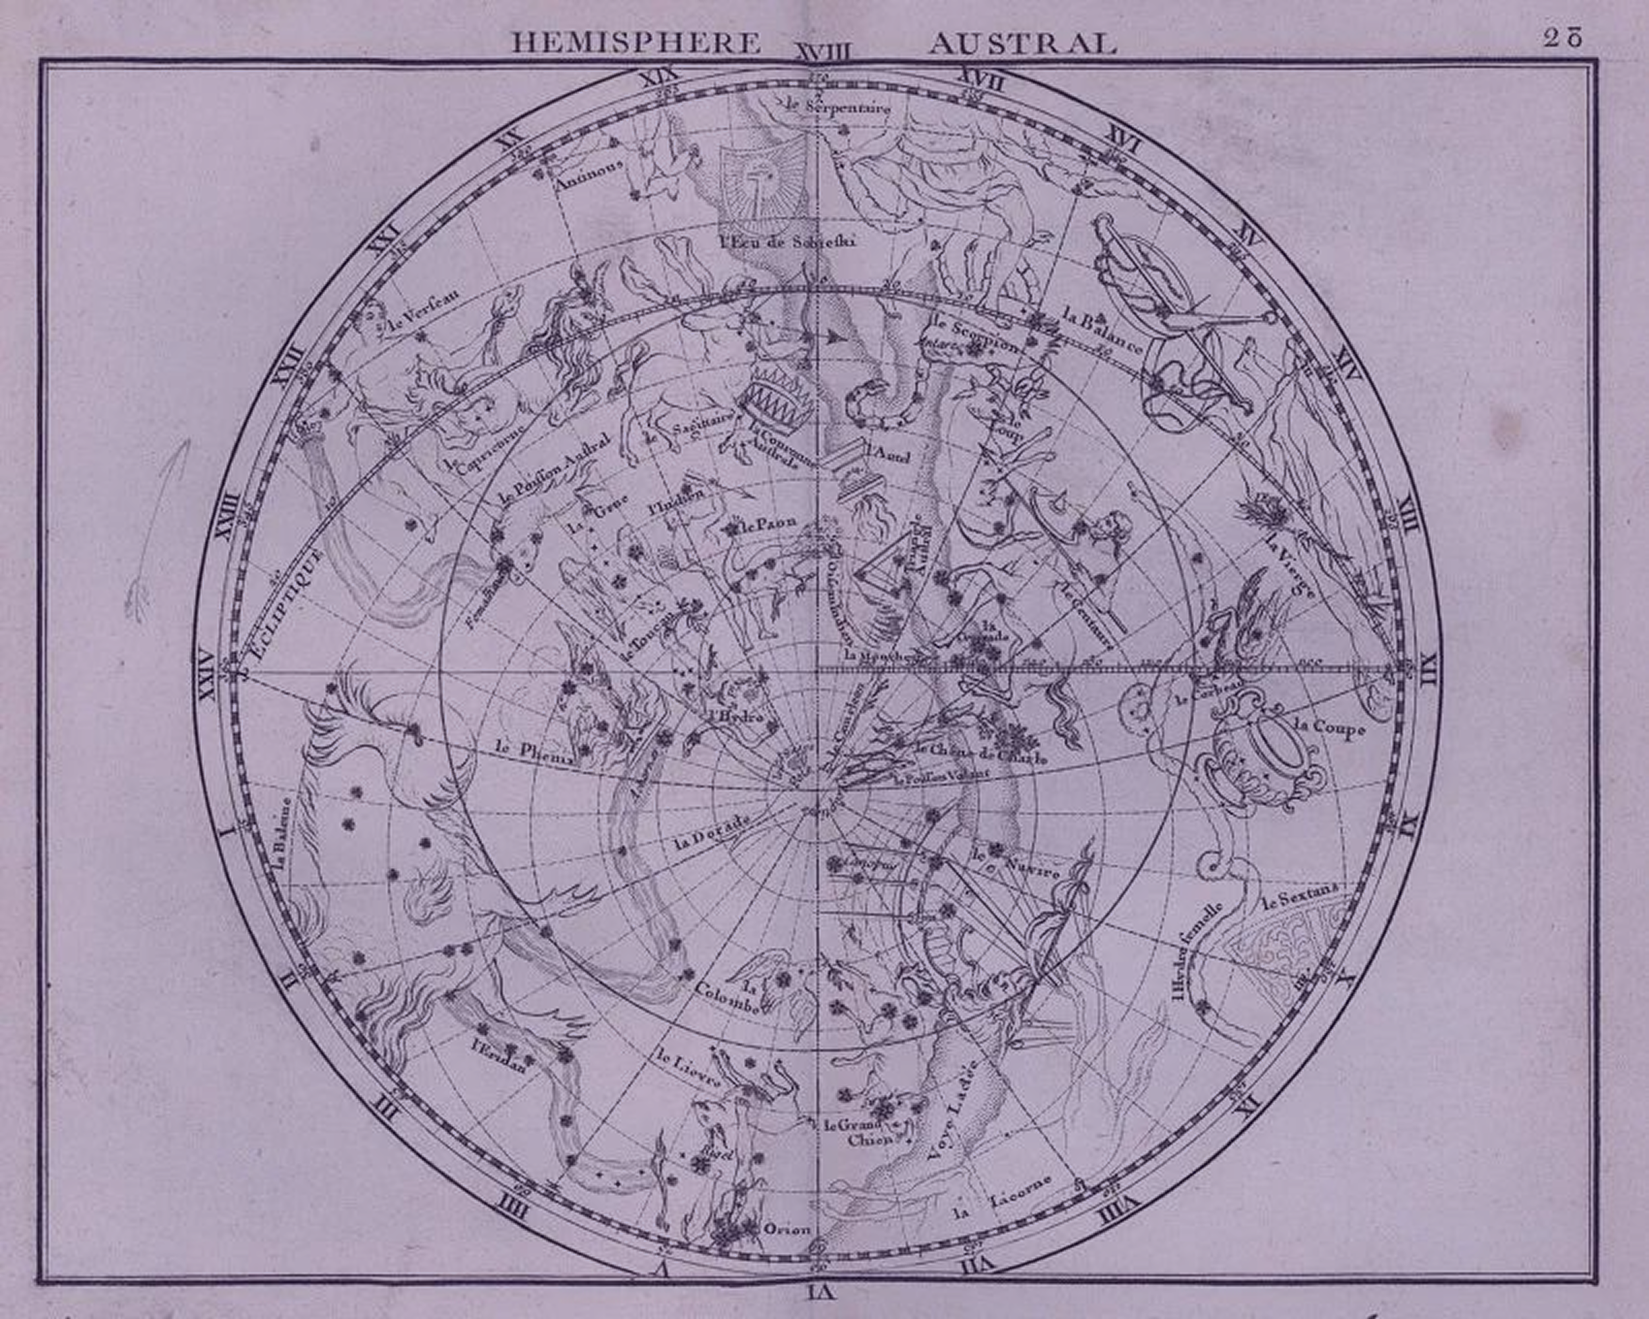
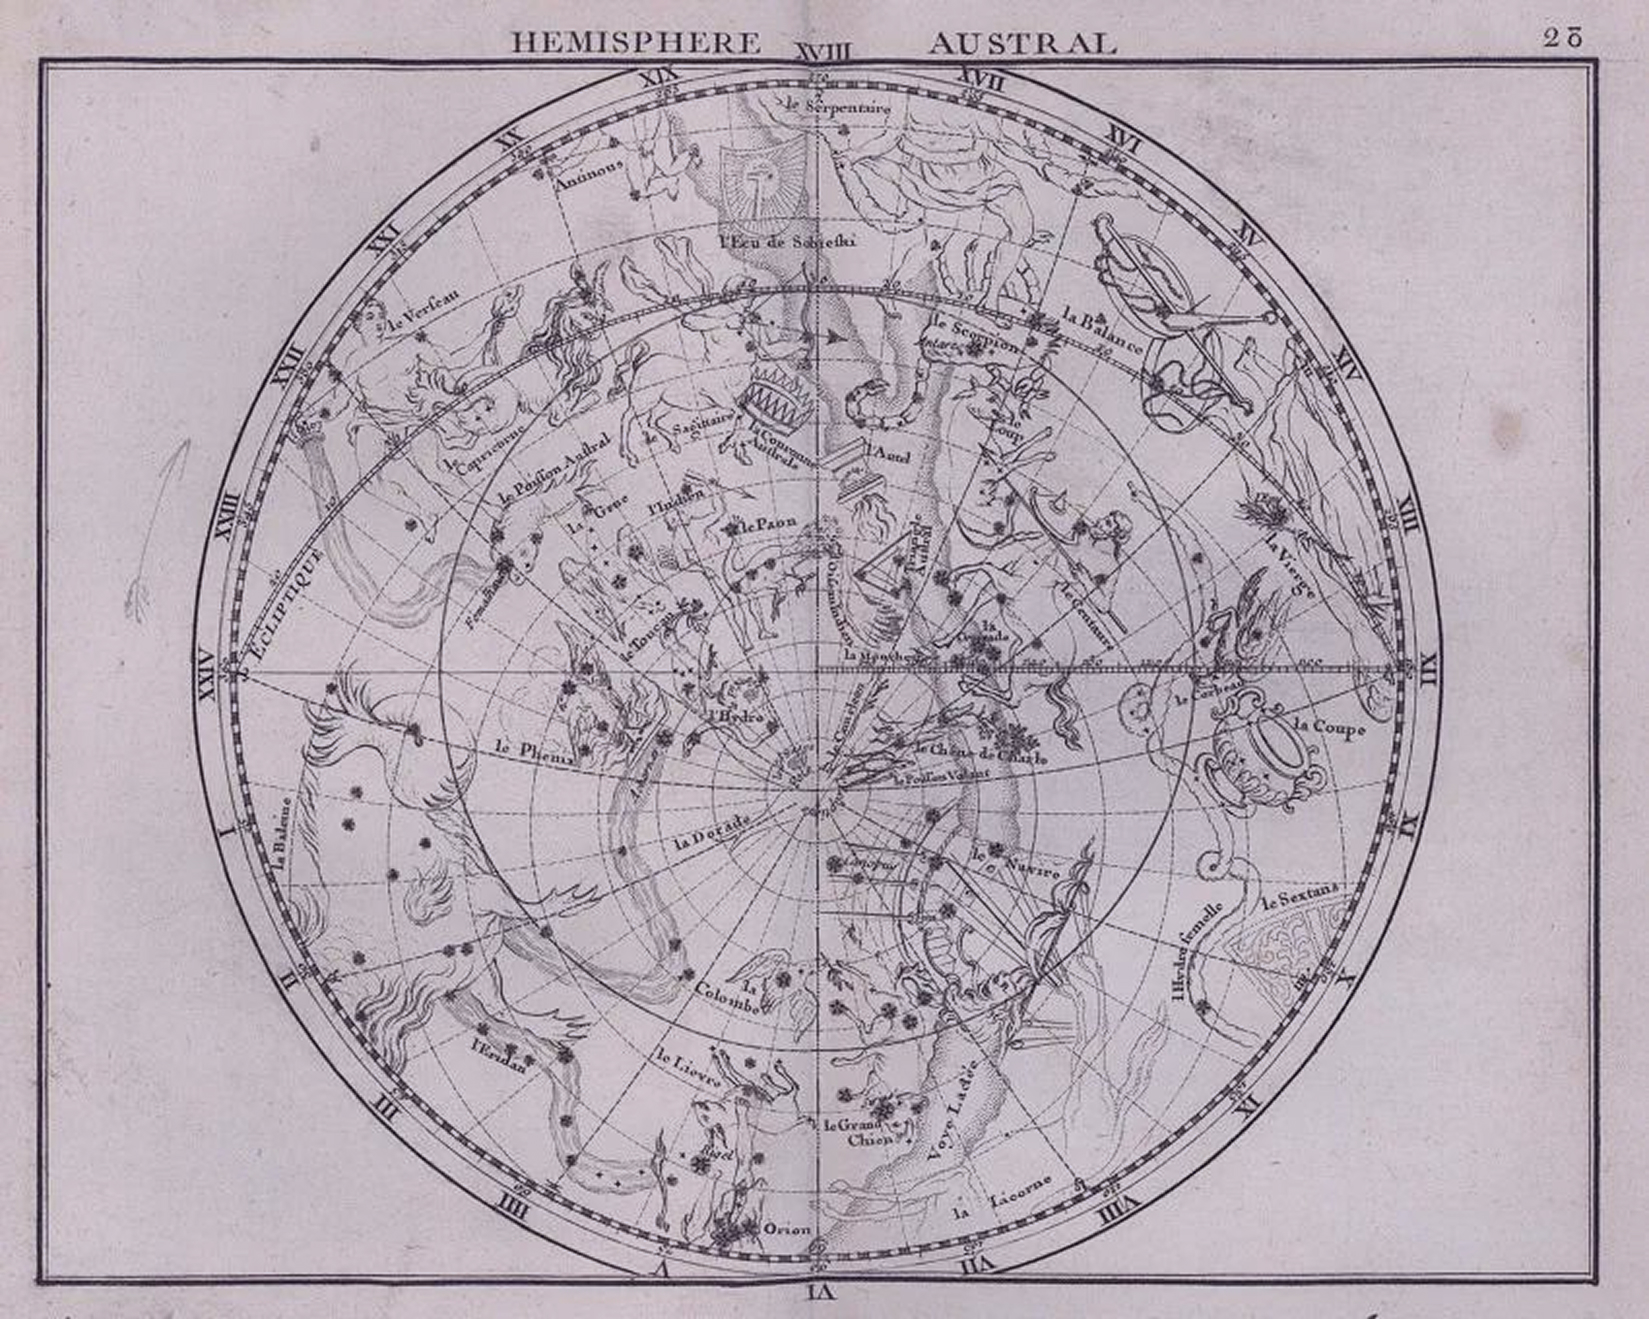
tabea article

diff --git a/src/styles/global.css b/src/styles/global.css
@@ -97,9 +97,9 @@
   }
 
   em, i {
-  font-style: normal;
-  font-variation-settings: "slnt" -12;
-  font-synthesis: none;
+    /* font-style: normal; */
+    font-variation-settings: "slnt" -12;
+    font-synthesis: none;
   }
 
   .hide-nav {

diff --git a/src/content/articles/speculating-crisis.md b/src/content/articles/speculating-crisis.md
@@ -1,0 +1,96 @@
+---
+title: "Speculating Our Way Through Crisis"
+date: 2026-02-08
+genre: essay
+issue: 1
+draft: false 
+authors: 
+    - tabea-krug
+image: "../images/dream-nightmare.jpg"
+abstract: Overaccumulation, hegemony and AI hype
+caption: "An abandoned construction project in Cyprus. Photo: Rogier Krens."
+---
+It is no secret that investments in generative AI are through the roof. The scale is staggering: in 2025 alone, the so-called *Magnificent 7* poured over $400 billion into AI infrastructure; Morgan Stanley estimate that global investment in data centres and hardware will approach $3 trillion by 2029, while OpenAI alone have secured contracts totalling more than $1 trillion.[^1] This is only the tip of the iceberg: today’s financial flows in the AI industry increasingly resemble the railroad expansions of the 19th century, well eclipsing the dot-com boom of the late 1990s. There is little doubt that we are witnessing one of the most significant reallocations of capital in modern economic history.
+
+There are, however, good reasons to believe that this enthusiasm rests on a fragile foundation. First, high revenue growth notwithstanding, these firms’ earnings remain but a fraction of cumulative investments.[^2] To date, there is no clear path to profitability for these vast, capital-intensive infrastructures, and little to suggest that such a path could even exist. Second, even if we put problems with short-term profitability aside, Silicon Valley appear to be caught in a circular investment loop.[^3] To wit, a triangular relationship has emerged between chip manufacturers, cloud providers, and AI firms, wherein actors like Nvidia invest heavily in AI firms and these firms, in turn, commit to purchasing vast amounts of hardware and renting cloud services from the same investors. This circularity artificially inflates revenues, creating the appearance of market depth that is underpinned by capital round-tripping, rather than by meaningful economic fundamentals.
+
+Productivity gains from generative AI, too, have remained modest.[^4] Improvements in core services remain elusive, as the brute-force scaling paradigm reaches a point of diminishing returns. This is driven by both the exhaustion of high-quality human data, and by the intrinsic architectural constraints of probabilistic modelling[^5] — constraints that will inhibit models from ever transcending the *stochastic parrot* stage to become true, systematic reasoning engines.[^6]
+
+Thus far, AI’s economic contribution appears to have been largely confined to accelerating existing routine activities rather than opening up new sources of value creation. Building on earlier waves of mechanisation that transformed factory work, generative AI imposes industrial rhythms on knowledge work, forcing the logic of automation upon labour processes that are ostensibly cognitive or creative.[^7] It is based on this that claims about AI-enabled productivity gains are often justified. However, historically, sustained economic surges have required fundamental upheavals in production, and since generative AI is based on statistical repetition of past patterns, it remains a tool of imitation. While this recombination offers value to capital by streamlining output and degrading labour, it lacks the ability to effect the transformative discoveries and the opening of new spheres of value creation that would be necessary to justify current investment levels.[^8] The idea that AI can replace human creativity and innovation, which are necessary for transformative discoveries and the opening of new spheres of value creation, remains something of a fantasy.
+
+---
+
+Given the widening gap between investments and profits, an important question arises: why does capital continue to pour into AI? The answer lies less in some sort of collective misjudgement on the part of investors than in the laws of motion of capital itself. As Marx observed, the accumulation of capital periodically reaches a threshold where existing capital can no longer be reinvested without further depressing the rate of profit.[^9] And in recent years, we have indeed witnessed a steadily increasing concentration of liquidity in the hands of a few tech monopolies, who are now faced with limited productive investment opportunities. The AI bubble should thus be read as a symptom rather than a cause of this crisis of overaccumulation. Immense volumes of surplus capital, unable to find sufficiently profitable outlets after decades of globally stagnating profit rates, flood into these highly speculative projects, in the hopes that they might one day turn a profit.[^10] And since these investments represent claims on future profits that have yet to be (and, indeed, may never be) realised, they transform into fictitious capital, exacerbating the decoupling of assets on corporate balance sheets and in stock markets from real production. The current hype bubble serves only to accelerate the expansion of these fictitious claims, concealing the fundamentally crisis-prone nature of the current accumulation regime.
+
+The extent to which the U.S. economy has become tethered to this speculative cycle is striking. 40% of real GDP growth in the preceding year was driven by the capital expenditure offensives undertaken by major technology firms, directed almost exclusively toward the AI sector.[^11] Without this massive spending, the U.S. economy would likely have entered a period of stagnation, or even formal recession.[^12] These investments are largely backed by the American state, which is securing the conditions for accumulation in the AI economy via subsidies, strategic industrial policy, and technocratic legislation. A crash in this bubble — which appears to be imminent — would reverberate through the global financial system, through pension funds and international investment chains, calling into question the very economic foundations of U.S. hegemony. And since leading tech firms are now considered too big to fail, it is highly likely that the state would aim to stabilise them, to cushion the blow with massive liquidity support and interest rate cuts.
+
+Yet, importantly, this bubble’s collapse would not mean the end of generative AI or the downfall of Big Tech. Lest we forget — monopolistic tech giants like Google and Amazon were themselves forged in the flames of the dot-com crash. Crisis, in these contexts, primarily serves a market-clearing function; it wipes out significant portions of (inflated) market value, and concentrates power and capital with the few monopolies that survive. As such, crisis does not lead to a return to some much-vaunted capitalist competitive equilibrium, but rather helps entrench the technological and economic dominance of a few capitalists.
+
+At the end of the day, it is the working classes that will bear the brunt of capital’s excesses, in rising living costs and the loss of jobs and savings — as we witnessed after the subprime mortgage crisis. The risks intrinsic to capitalism itself will once again be socialised. 
+
+---
+
+It is difficult, however, to characterise the current AI movement as a purely economic phenomenon. Indeed, the development and deployment of AI today are clearly driven by geopolitical forces, chief among which is the systemic rivalry between the United States and China. The American ruling classes believe in the strategic necessity of this technology for maintaining their hold over power. In accordance with this, what we are witnessing is a convergence between the profit motive and the American state’s project of global hegemony.[^13] This new geopolitical order is being shaped by struggles over code, data flows, semiconductor production, data centres, and related infrastructures.
+
+As trade barriers intensify and rival blocs coalesce, the AI race is emerging as a central instrument of modern imperialism, with technological supremacy determining future geopolitical and economic capacity.[^14] The United States is pursuing an offensive strategy, aiming to export its entire technology stack as a global standard through the so-called *AI Action Plan*. Corporations like OpenAI, Oracle, and Microsoft have rapidly oriented themselves in line with Trump’s declaration that the US would “do whatever it takes” to lead the world in AI.[^15] And while the United States indulges in massive infrastructural investments to entrench its digital hegemony, the costs of these expansions are rerouted to the Global South. The ruthless extraction of lithium and cobalt systematically destroys local livelihoods and ecosystems, long before a single server is powered on. Furthermore, the “intelligence” of these models is built upon the invisible labour of a vast workforce in the semi-periphery, where workers are paid subsistence wages to label data and moderate content. This creates a deepening technological dependency for semi-peripheral nations, relegating their role in global capitalism to that of raw material suppliers or captive markets for Western cloud monopolies, as they are then forced to lease back the very technologies that were built upon their own raw materials and labour.[^16] By controlling data centres, cloud infrastructure, and undersea cabling, tech corporations are appropriating the digital economy’s means of production and circulation, while simultaneously serving as the “eyes and ears” of the security apparatus — both overseas and at home.[^17] Infrastructure becomes the material foundation of geopolitical control, as the entire world — outside of China — is pushed further and further into dependency.
+
+The U.S. state’s alignment with Big Tech extends into the battlefield.[^18] The integration of artificial intelligence marks a turning point in U.S. defence strategy. While software has long automated military logistics, the current revolution lies in algorithmic autonomy: the ability for cheap, disposable machines to operate in swarms without direct human piloting. Through initiatives such as *Replicator*, the Pentagon is increasingly relying on mass-produced, autonomous drone swarms. Other initiatives include *Project Maven* for automated target recognition and *Joint All-Domain Command and Control* for networked operations management.
+
+The global periphery has already become a testing ground for these lethal innovations. In Ukraine, Palantir has deployed AI‑enabled software that integrates satellite imagery, drone footage, and battlefield reporting to support targeting decisions and present military options in near-real time, compressing what used to take hours into minutes and thereby shortening the “kill chain” on the battlefield.[^19] Meanwhile, in Gaza, Israel’s *Lavender* database uses behavioural and social metadata for large-scale targeting and execution. This combination of low-cost autonomous drones and pervasive data extraction is redefining modern warfare.[^20]
+
+Ultimately, this shift reveals the destructive maturity of the current global order. Technology is being instrumentalised, not to liberate humanity, but to refine the mechanisms of exploitation and warfare. Under the imperatives of capital, artificial intelligence is a tool of digital barbarism, cementing global dependencies and preemptively stifling any form of resistance. Yet it need not remain this way.
+
+---
+
+The current mania surrounding artificial intelligence does not resolve any of the fundamental contradictions of the capitalist mode of production: the growing concentration of wealth; the decline in the rate of profit; the overaccumulation of unproductive capital, and the intensified rivalry between imperialist powers that accompanies all of the above. Yet, tech elites have successfully imposed their vision of society, the future, and progress, as if no alternative could exist — or even be desirable. It is essential to shatter this narrative while avoiding a retreat into technophobia. Our task, rather, should be to free technology from the constraints imposed by capital.
+
+What, then, is at stake? As argued above, Big Tech’s infrastructure now functions as a core instrument of geopolitical power, and its ownership determines both who captures value and who shapes the future direction of technological development. In addition, digital technologies have not eliminated labour as much as concealed it. The tech industry rests on the collective work of millions — from programmers in imperial metropolises to precarious workers in the global South mining rare earth minerals for starvation wages — making questions of ownership and control of technology inseparable from the terrain of contemporary class struggle.
+
+Ultimately, reformist demands to increase taxation or break up monopolies are mere palliatives for a deeply broken system, since they leave the core problem of private investment and planning untouched, merely seeking to mitigate its worst excesses. Fundamental change requires the expropriation of Big Tech: not as an end in itself, but as a lever for a broader socialist transition that radically reorients how technology and its infrastructures are created and used; liberating them from their subordination to capital, and bringing them under the democratic control and management of those who develop, use, and are affected by them — workers and society as a whole.  
+ 	  
+The ground is shifting. As imperialist rivalries intensify and the global struggle for technological dominance sharpens, the AI bubble stands on the verge of a collapse that will profoundly undermine public faith in the current system. However, we cannot sit idle while Big Tech uses the chaos to consolidate its power. It is essential that we lay the organisational and political foundations today. We need bold visions that challenge the logics of private profit and extraction, replacing them with a framework of collective utility — through democratising economic planning and ensuring, ultimately, that technology functions as a public resource dedicated to meeting human needs and fostering global solidarity.[^21]   
+By organising around transitional demands, we need to connect immediate struggles — job losses, price hikes, and anti-militarisation efforts — to the fundamental contradictions of capitalism, exposing the deep conflict between collective labour and private ownership. The growing scepticism, fear, and resistance surrounding AI and the tech behemoths should also be seen as a political opportunity to dismantle the myth of capitalist inevitability. It is only by grounding our movement in demands that transcend the limits of reformism that we can lay the foundation for a future where technology serves the needs of society as a whole, rather than the imperatives of capital.
+
+We demand nothing less than sovereignty over the tools that shape our future.
+
+[^1]:  Rolfe Winkler, Nate Rattner, and Sebastian Herrera, “Big Tech’s $400 Billion AI Spending Spree Just Got Wall Street’s Blessing”, *The Wall Street Journal*, 31 July 2025; Andrew Sheets, “Who Will Fund AI’s $3 Trillion Ask?”, Morgan Stanley; Tabby Kinder and George Hammond, “OpenAI’s computing deals top $1tn”, *Financial Times*, 7 October 2025\.
+
+[^2]:  OpenAI, for instance, are not expected to turn a profit until at least 2029\. See: Bailey Lipschultz and Shirin Ghaffary, “OpenAI Expects Revenue Will Triple to $12.7 Billion This Year”, *Bloomberg*, 26 March 2025\.
+
+[^3]:  Emily Forgash and Agnee Ghosh, “OpenAI, Nvidia Fuel $1 Trillion AI Market With Web of Circular Deals”, *Bloomberg*, 7 October 2025\.
+
+[^4]:  A recent MIT study of 300 publicly announced AI initiatives found that 95% failed to increase profitability. See: “The GenAI Divide: State of AI in Business 2025”, *MIT NANDA*. McKinsey have reported similar results: in a survey of companies deploying generative AI, over 80% saw no measurable impact on earnings. See: “Seizing the agentic AI advantage”, *McKinsey & Company.*
+
+[^5]:  High-quality training data is projected to plateau between 2026 and 2032, creating a potential bottleneck for scaling language models. See: Pablo Villalobos *et al.*, “Position: will we run out of data? limits of LLM scaling based on human-generated data”, *Proceedings of the 41st International Conference on Machine Learning*, 2024. Using synthetic data to compensate is also no solution, since models trained on their own generations progressively lose information and experience functional decay. See: Ilia Shumailov *et al.*, “AI models collapse when trained on recursively generated data”, *Nature*, 2024\. For an analysis of the constraints of the transformer architecture, see:  Dieuwertje Luitse and Wiebke Denkena, “The Great Transformer: Examining the Role of Large Language Models in the Political Economy of AI”, *Big Data & Society*, 2021\.
+
+[^6]:  Emily M. Bender, Timnit Gebru, Angelina McMillan‑Major, and Shmargaret Shmitchell, “On the Dangers of Stochastic Parrots: Can Language Models Be Too Big?”, *Proceedings of the 2021 ACM Conference on Fairness, Accountability, and Transparency*, 2021\. For a discussion on the scaling-dependent “emergent” abilities of language models, see: Jason Wei et al., “Emergent Abilities of Large Language Models”, *arXiv*, 2022; Rylan Schaeffer, Brando Miranda, and Sanmi Koyejo, “Are Emergent Abilities of Large Language Models a Mirage?”, *Advances in Neural Information Processing Systems*, 2023\.
+
+[^7]:  Vinit Ravishankar and Mostafa Abdou, “The Rise and Fall of the Knowledge Worker”, *Jacobin*, 2025\.
+
+[^8]:  This position is not unpopular with market liberals: Nobel laureate Daron Acemoglu acknowledges, for instance, that forecasts for economic growth from AI are likely to be far smaller than projections imply. See: Daron Acemoglu, “The Simple Macroeconomics of AI”, 2024\.
+
+[^9]:  Karl Marx, *Capital, Vol III.* ch. 25, 1894\.
+
+[^10]:  Aaron Benanav, *“Automation and the Future of Work”*, 2020; Guglielmo Carchedi and Michael Roberts, *“Capitalism in the 21st Century: Through the Prism of Value”*, 2022\.
+
+[^11]:  Ruchir Sharma, “America is now one big bet on AI”, *Financial Times*, 6 October 2025\.
+
+[^12]:  Deutsche Bank Research, “The world economy is in a few people's hands”, 24 September 2025\.
+
+[^13]:  Nick Dyer-Witheford and Alessandra Mularoni, “Cybernetic Circulation Complex. Big Tech and Planetary Crisis”, 2025\.
+
+[^14]:  Nick Srnicek, “Silicon Empires: The Fight for the Future of AI”, 2025\.
+
+[^15]:  Volker Briegleb, “Trump: ‘America will win the AI race’”, *heise online*, 24 July 2025\.
+
+[^16]:  Michael Kwet, *“Digital Degrowth: Technology in the Age of Survival”*, 2024\.
+
+[^17]:  Alessandro Coveri, Claudia Cozza, and Davide Guarascio, “Blurring Boundaries: An Analysis of the Digital Platforms-Military Nexus.” *Review of Political Economy*, 2024\.
+
+[^18]:  Dario Guarascio, Andrea Coveri and Claudio Cozza, “Big Tech and the US Digital-Military-Industrial Complex”, *Intereconomics*, 2025\.
+
+[^19]:  Vera Bergengruen, “How Tech Giants Turned Ukraine Into an AI War Lab”, *TIME*, 8 February 2024\.
+
+[^20]:  Yuval Abraham, “‘Lavender’: The AI machine directing Israel’s bombing spree in Gaza”, *\+972 Magazine*, 3 April 2024
+
+[^21]:   Martín Schapiro and Gerónimo Pelli, “Algorithmen für Alle: Künstliche Intelligenz im Sozialismus”, *Klasse Gegen Klasse*, 2025\.

diff --git a/src/content/authors/tabea-krug.md b/src/content/authors/tabea-krug.md
@@ -1,3 +1,4 @@
 ---
 name: Tabea Krug
 ---
+Tabea Krug is a computer scientist, aspiring teacher, and revolutionary Marxist. She is an editor at Klasse Gegen Klasse, and works on analyses of the AI hype and the socialisation of Big Tech. Her work explores how technology can be used as a tool for a democratically planned economy, liberating digital infrastructure from the logics of profit.

diff --git a/src/content/articles/at-google.md b/src/content/articles/at-google.md
@@ -7,7 +7,7 @@ draft: false
 authors: 
     - no-tech-for-apartheid
 image: "../images/drop-nimbus.jpg"
-caption: "Image by No Tech for Apartheid"
+caption: "Photo: No Tech for Apartheid."
 abstract: "Organising at the digital arms dealer"
 ---
 
